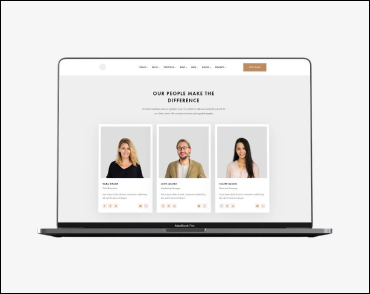
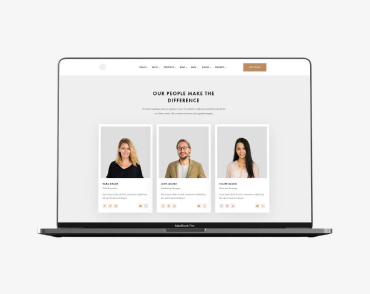
страница портфолио готова кроме заголовка

Changed region(s): [[0.0, 0.0, 1.0, 1.0]]

diff --git a/css/style.css b/css/style.css
@@ -42,6 +42,11 @@ ul {
   margin: 0;
   padding: 0;
 }
+img{
+  display: block;
+  max-width: 100%;
+  height: auto;
+ } 
   
 .container{
  outline: 2px solid red;
@@ -58,7 +63,7 @@ ul {
   align-items: center;
   padding-top: 24px;
   padding-bottom: 25px;
-  background-color: mediumspringgreen;
+  
   
 }
    /*logo*/
@@ -141,8 +146,7 @@ background-color:var(--footer-hero-color);
   margin: 0;
   margin-bottom: 30px;
   
-  width: 696px;
-  height: 120px;
+  
 
   color: var(--main-title-color);
   font-weight: 900;
@@ -170,7 +174,7 @@ background-color:var(--footer-hero-color);
 
   padding-top: 94px;
   padding-bottom: 94px;
-  background-color: magenta;
+  
 }
 
 .section-title li + li{
@@ -205,15 +209,14 @@ background-color:var(--footer-hero-color);
   text-align: center;
 }
   
-.img{
+.big-img{
   display: flex;
   justify-content: space-between;
-
+  
   padding-bottom: 94px;
-  background-color: mediumturquoise;
-}
+  }
  
-.img li + li{
+.big-img li + li{
 margin-left: 30px;
 }
 /*section Наша команда */
@@ -225,8 +228,14 @@ background-color:var(--background-color);
 
 .command{
   display: flex;
-  
-  background-color: orange;
+}
+.command li{
+  width: 270px;
+  border-bottom-right-radius: 5px;
+  border-bottom-left-radius: 5px;
+  overflow: hidden;
+  background: #ffffff;
+  border: 1px solid #eeeeee;
 }
 .command li + li{
   margin-left: 30px;
@@ -237,6 +246,7 @@ background-color:var(--background-color);
   margin-bottom: 10px;
   padding-top: 30px;
 
+  
   color: var(--main-text-color);
   font-weight: 500;
   font-size: 16px;
@@ -292,39 +302,64 @@ background-color:var(--background-color);
 
 .category{
   margin: 0;
-  
+} 
+
+
+   /*Кнопки*/
+
+.list-button{
+  display: flex;
+  justify-content: center;
+
+  padding-top: 94px;
+} 
+.list-button li + li{
+  margin-left: 8px;
 }
 
-.list .button{
-  margin-bottom: 50px;
-  padding: 6px 22px;
-  border-radius: 4px;
+.button{
 
-  color: var(--main-text-color);
-  font-family: Raleway, OpenSans; 
-  font-weight: 500;
-  font-size: 16px;
-  line-height: 1.62;
-  text-align: center;
+border: 4px solid transparent;
+border-top-left-radius: 4px;
+border-top-right-radius: 4px;
+border-bottom-right-radius: 4px;
+border-bottom-left-radius: 4px;
+background: #F5F4FA;
+
+padding: 6px 22px;
+
+color: var(--main-text-color);
+font-family: Raleway, OpenSans; 
+font-weight: 500;
+font-size: 16px;
+line-height: 1.62;
+text-align: center;
 }
 
-.list .button:hover{
+.button:hover{
   background-color: var(--accent-color);
   color: var(--main-title-color);
 }
 
        /*Карточки*/
+
 .portfolio{
   display: flex;
   flex-wrap: wrap;
-  background-color: palevioletred;
+
+  padding-top: 34px;
+  padding-bottom: 94px;
 }
 
 .link-portfolio{
-  width: 370px;
-  background-color: pink;
-  margin-right: 30px;
-  margin-bottom: 30px;
+width: 370px;
+ 
+margin-right: 30px;
+margin-bottom: 30px;
+
+background: #FFFFFF;
+border: 1px solid #EEEEEE;
+box-sizing: border-box;
 }
 
 .link-portfolio:nth-child(3n){

diff --git a/portfolio.html b/portfolio.html
@@ -17,7 +17,7 @@
             <div class="menu-nav">
                 <a href="./index.html"><span class="web">Web</span><span class="studio">Studio</span> </a>
                 <nav>
-                    <ul class="site-nav list" >
+                    <ul class="site-nav " >
                        <li> 
                            <a class="link " href="./index.html"> Студия</a>
                        </li>
@@ -42,18 +42,18 @@
 <section  >
     <div class="container">
         <h1 class="category">Категории услуг</h1>
-        <ul>
+        <ul class="list-button">
             <li> <button class="button" type="button">Все</button> </li>
             <li> <button class="button" type="button">Веб-сайты</button></li>
             <li> <button class="button" type="button">Приложения</button></li>
             <li> <button class="button" type="button">Дизайн</button></li>
             <li> <button class="button" type="button">Маркетинг</button></li>
         </ul>
-    </div>
+    
         
     
       <!--Все категории-->
-     <div class="container">
+     
         <ul class="portfolio">
             <li class="link-portfolio"> 
                 <a href=""> 
@@ -121,7 +121,7 @@
             <li class="link-portfolio"> 
                 <a href="">
                     <img src="./inmages/port8.jpg" alt="" width="370">
-                    <div> class="card"
+                    <div class="card"> 
                         <h3 class="project">Проект LAB</h3>
                         <p class="work">Маркетинг</p>
                     </div>                  
@@ -137,11 +137,13 @@
                 </a> 
             </li>
         </ul>
-     </div>
+    </div>
              
 </section>
 
 </main>
+
+
 <footer class="footer">
     
         

diff --git a/index.html b/index.html
@@ -18,7 +18,7 @@
             <div class="menu-nav">
                 <a href="./index.html"><span class="web">Web</span><span class="studio">Studio</span> </a>
                 <nav>
-                    <ul class="site-nav list" >
+                    <ul class="site-nav " >
                        <li> 
                            <a class="link current" href="./index.html"> Студия</a>
                        </li>
@@ -83,7 +83,7 @@
             <div class="container">
                 <h2 class="title">Чем мы занимаемся</h2>
             <div>
-                <ul class="img">
+                <ul class="big-img">
                     <li><img src="./inmages/img.png" alt="" width="370px"></li>
                     <li><img src="./inmages/box2.png" alt="" width="370px"> </li>
                     <li><img src="./inmages/box3.png" alt="" width="370px"></li>
